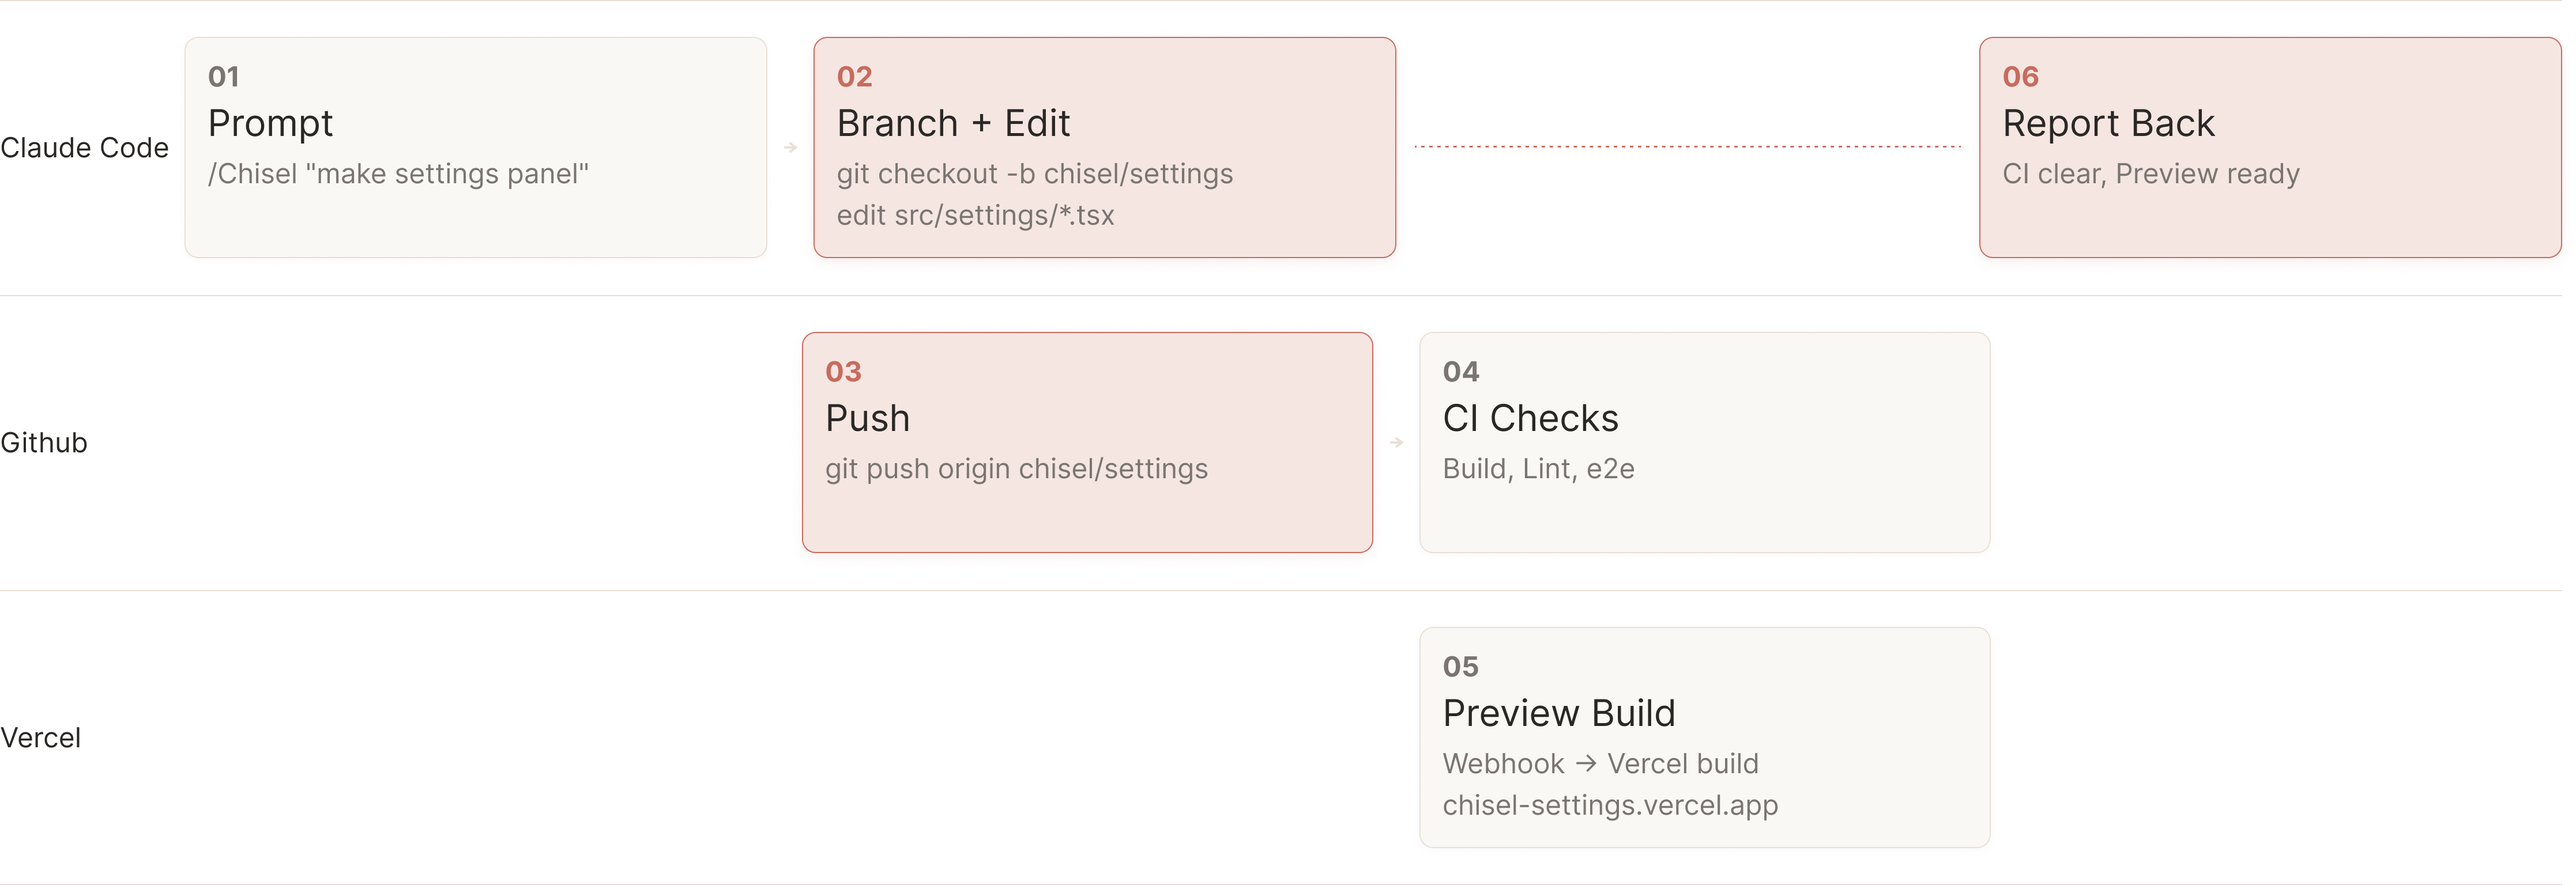
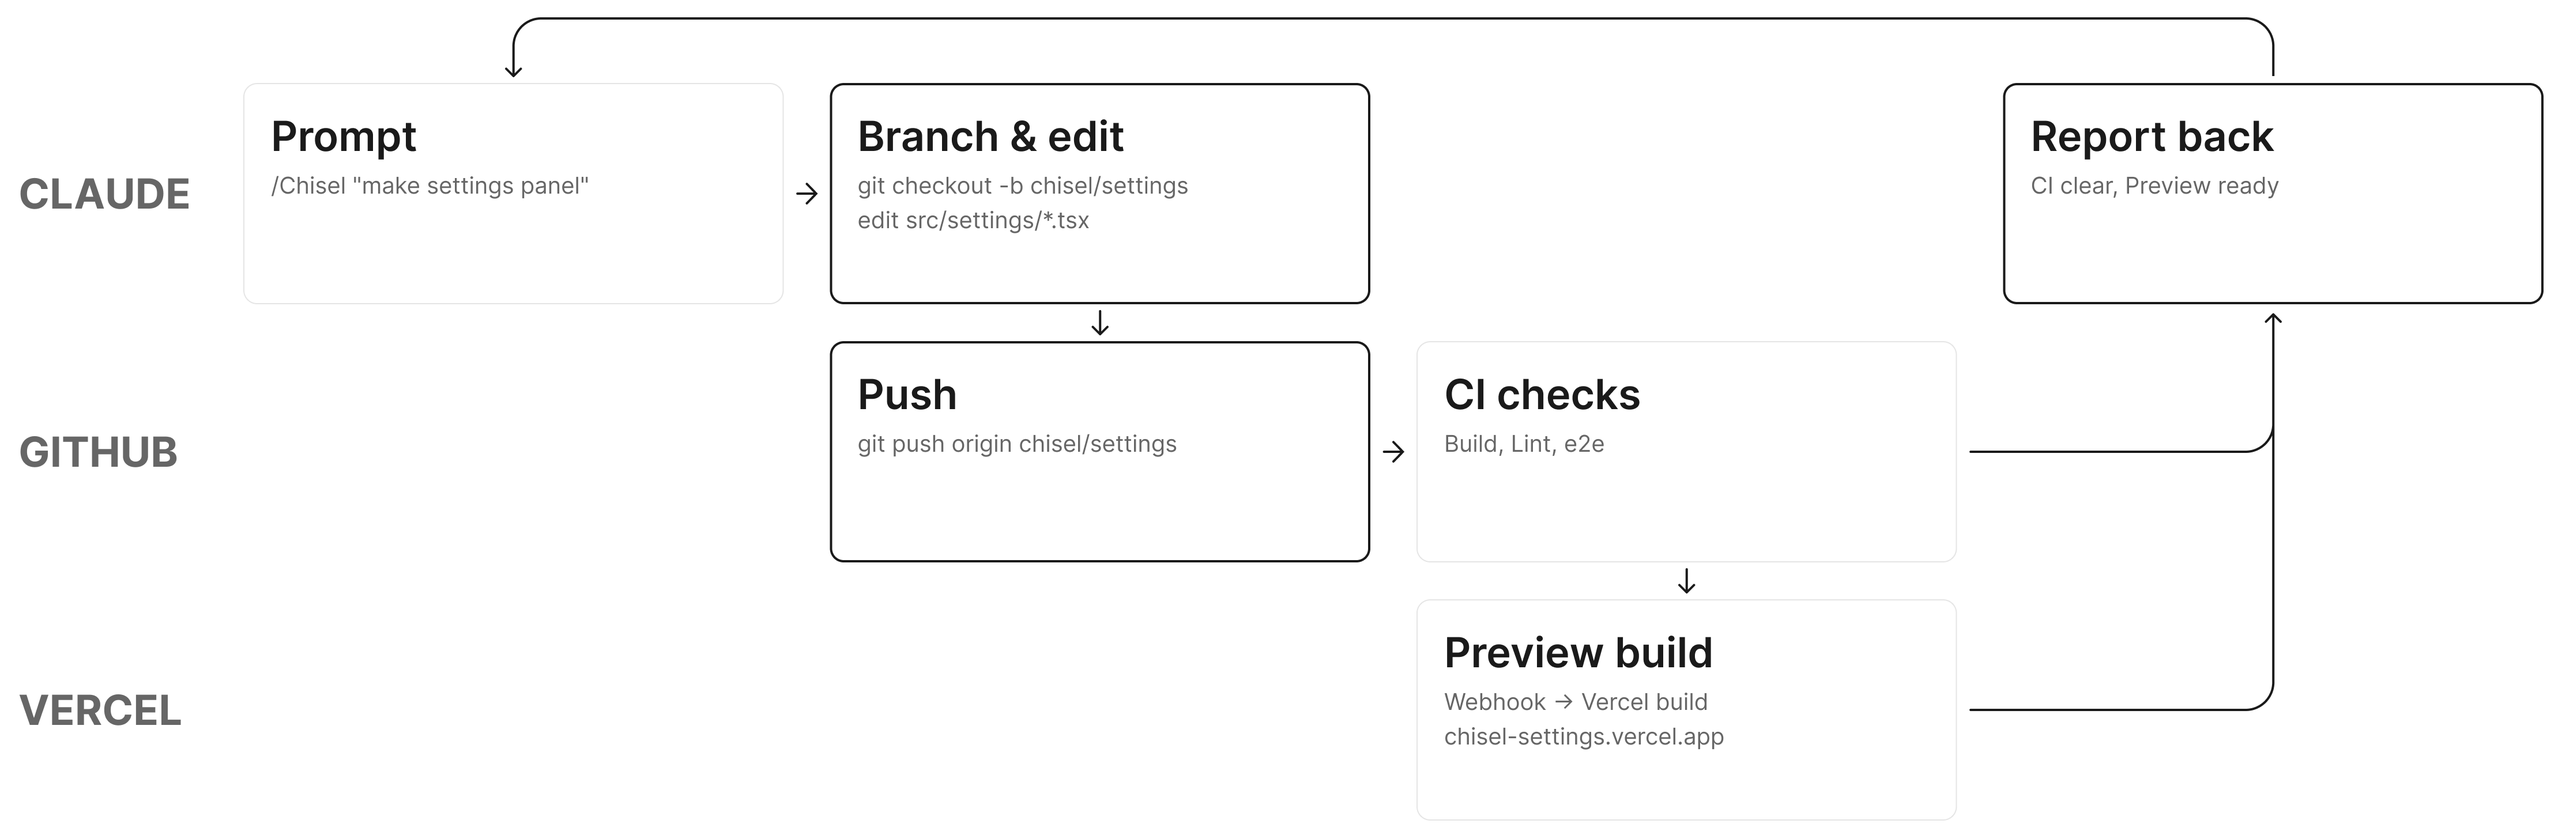
chisel edits

diff --git a/src/data/projects.ts b/src/data/projects.ts
@@ -98,30 +98,36 @@ export const projects: Project[] = [
     content: [
       {
         type: "text",
-        html: "Every org I've worked in restricts access to design, product, and code systems to a select few. Something as simple as a copy change becomes a Linear ticket, a Figma update, an engineering sprint, and a week or more of latency.",
+        html: "Every org I've worked in restricts access to domain-specific systems. Simple changes can require Linear tickets, Figma updates, and engineering sprints. Designers and PMs prototype in sandboxes disconnected from essential materials like React components, backend systems, and integration pipelines. And engineers don't have access to creative material and design operating principles. Time gets wasted by administrative overhead and highly async workflows.",
       },
       {
         type: "text",
-        html: "Advanced design and user experience capability shouldn't be limited to specialists or gated tools; it should be something most people can participate in, learn from, and build on. Chisel is a product design assistant combining Figment's component library, design system, analytics, customer interviews, and issue tracking with a lofty mission...",
+        html: `Chisel connects these formerly siloed systems to make
+          <ol>
+            <li>High-quality craft more accessible, collaborative, and scalable across Figment.</strong></li>
+            <li>Rapid prototyping consistent and useful for PMs, Engineers, and Designers.</li>
+            <li>Faster product iteration for simple edits like copy changes and styling.</li>
+          </ol>
+        `,
       },
       {
         type: "text",
-        html: "<strong>Make high-quality craft more accessible, collaborative, and scalable across Figment.</strong>",
+        html: "<strong>Advanced design capability, rapid prototyping, and the abililty to iterate on a product don't need to be limited to specialists or gated tools. These systems should be available to participate in, learn from, and build on.</strong>",
       },
       { 
         type: "image", 
         src: "/projects/chisel/chisel-process.png",
-        className: "bg-cream p-2 border border-black/10 rounded-sm",
-        caption: "Chisel moves design from a step in the process available to a select few, to an infrastructure layer anyone in the org can use." ,
+        className: "bg-cream p-2 pb-4 border border-black/10 rounded-sm",
+        caption: "Chisel moves design from a step in the process available to a select few, to an infrastructure layer anyone can use." ,
         alt: "Chisel process then vs now" },
       {
         type: "text",
-        html: "Chisel codifies all the context an agent needs to design and build production-ready features directly in Figment's frontend mono-repo. Leveraging Figment's existing CI pipeline, Chisel pushes code the same way an engineer does.",
+        html: "Chisel codifies all the context an agent needs to design and build production-ready features directly in Figment's frontend mono-repo. Leveraging Figment's existing CI pipeline, Chisel pushes code the same way an engineer does, keeping a human in the loop throughout.",
       },
       { 
         type: "image", 
         src: "/projects/chisel/chisel-stack.png",
-        className: "bg-cream p-2 border border-black/10 rounded-sm",
+        className: "bg-cream p-2 pb-4 border border-black/10 rounded-sm",
         caption: "The Chisel stack",
         alt: "Chisel stack",
       },
@@ -132,7 +138,7 @@ export const projects: Project[] = [
       { 
         type: "image", 
         src: "/projects/chisel/chisel-workflow.png", 
-        className: "bg-cream p-2 border border-black/10 rounded-sm",
+        className: "bg-cream p-2 pb-4 border border-black/10 rounded-sm",
         caption: "The Chisel workflow",
         alt: "Chisel workflow"
        },
